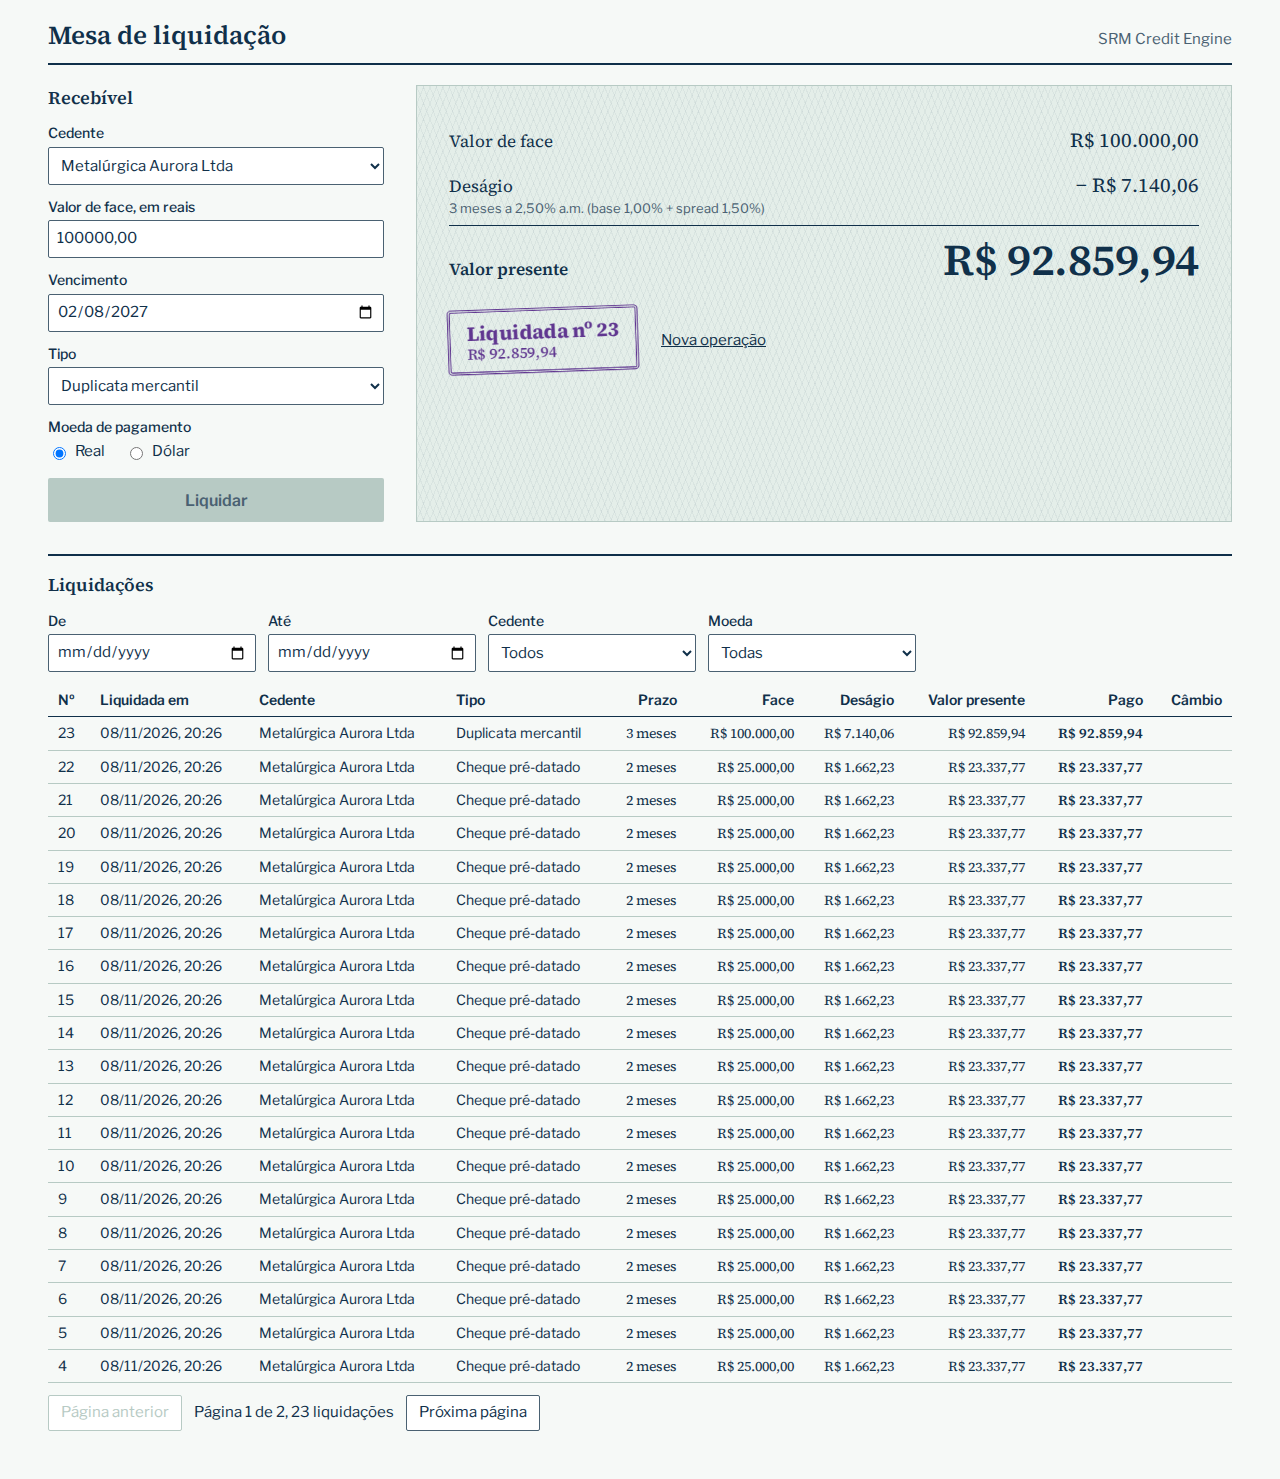
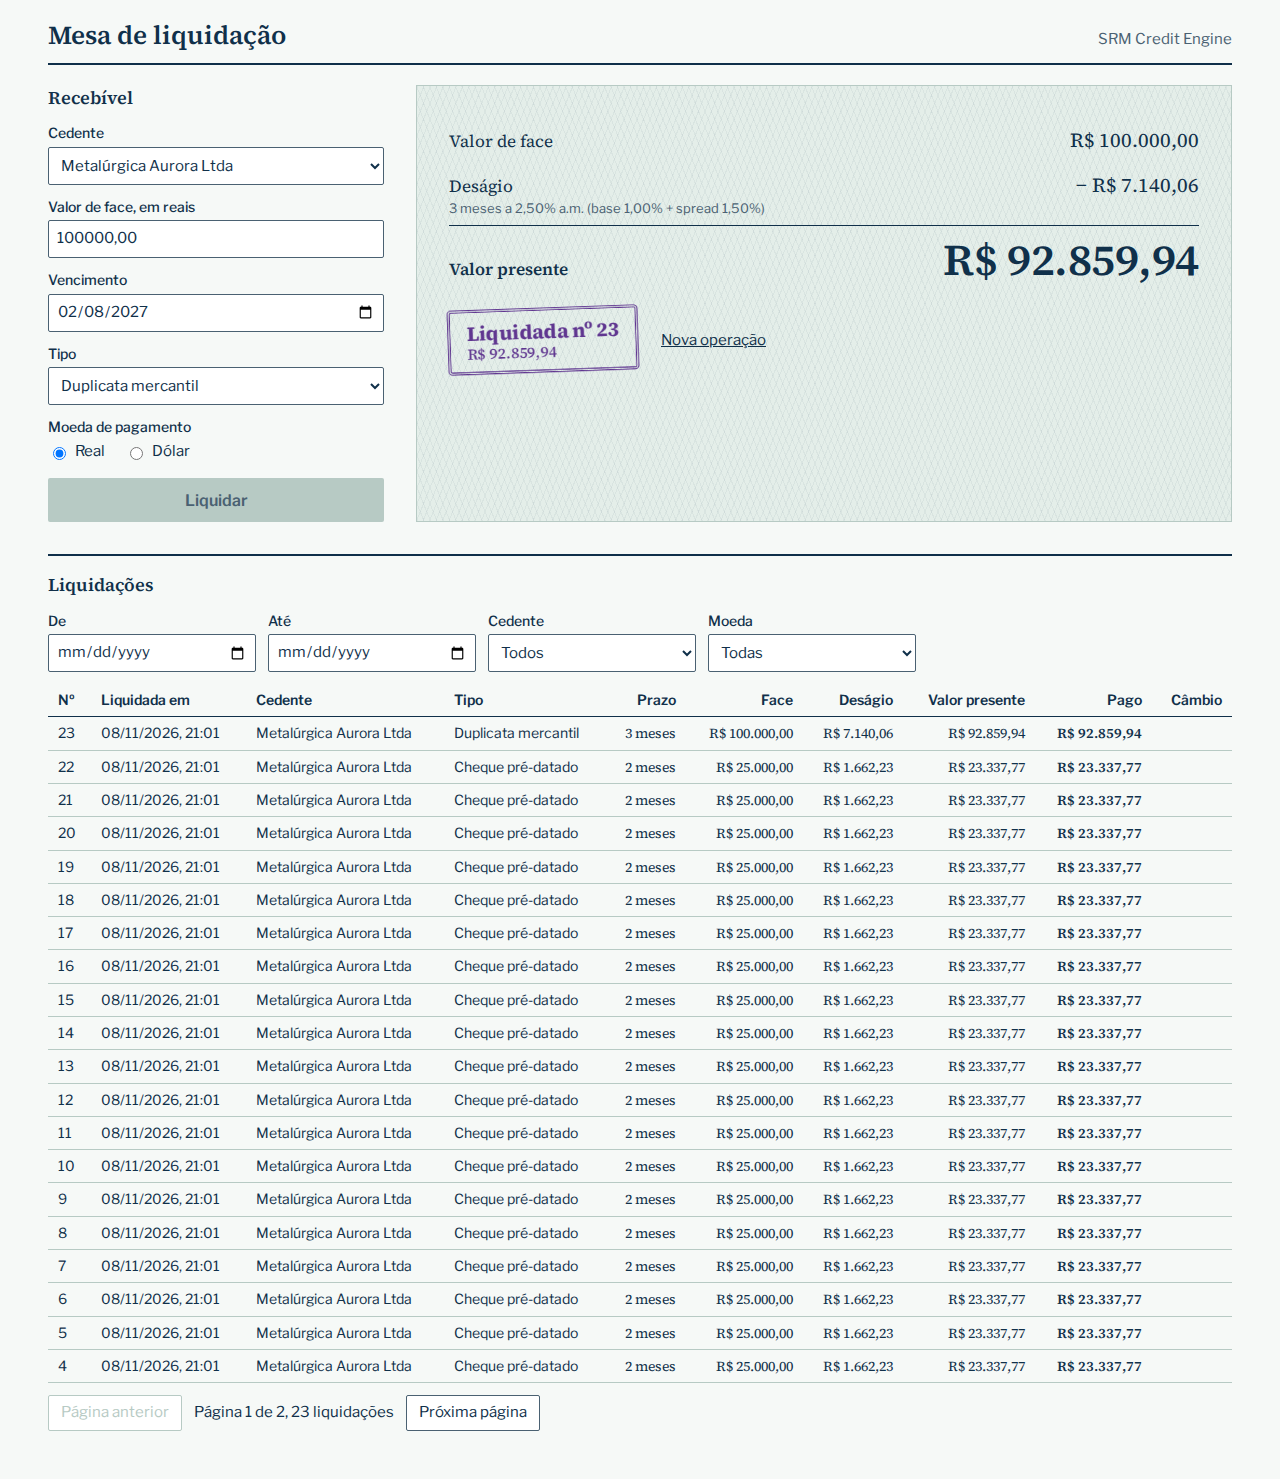
fix(frontend): keep the port in the Host header sent to the backend
$host drops the port, so the backend compared `Host: localhost` with
`Origin: http://localhost:3000`, treated it as another origin and answered 403
to every POST. The panel was unusable on its published port.

E2E used http://frontend on port 80, where both match, and the smoke test only
sent a GET through Nginx. Both now take the path the browser takes. E2E was red
before this fix and green after it.

Refs: AC-UI-01, AC-OPS-01

diff --git a/AI_USAGE.md b/AI_USAGE.md
@@ -29,15 +29,17 @@ Fatos registrados durante a implementação, na ordem em que aconteceram. Cada i
 5. **Schema `Problem` ausente no OpenAPI.** O `ContractIT` falhou ao carregar o spec: todas as respostas de erro referenciavam um schema inexistente, porque o springdoc descarta os `components` do bean `OpenAPI`. Corrigido registrando o schema no `OpenApiCustomizer`.
 6. **`Content-Type` diferente no `413`.** O `PayloadLimitFilter` respondia `application/problem+json;charset=UTF-8`, diferente dos outros erros. Detectado por `ApiErrorsIT#oversizedBodyIs413`.
 
+7. **Painel inutilizável em `http://localhost:3000`, encontrado pelo autor.** Todo POST pelo Nginx recebia `403 Invalid CORS request`, porque `proxy_set_header Host $host` descarta a porta. O backend via `Host: localhost` e `Origin: http://localhost:3000` como origens diferentes. O `verify-all.sh` tinha saído com 0 e o agente tinha declarado o trabalho concluído: o E2E acessava `http://frontend` (porta 80, em que Host e Origin coincidem) e o smoke testava pelo Nginx só um GET, que o navegador envia sem `Origin`. O teste foi trocado para a porta publicada, ficou vermelho, e só então o `nginx.conf` foi corrigido para `$http_host`. O smoke ganhou um POST com `Origin`.
+
 ### Falhas de processo do agente
 
-7. **Merge com `verify` local vermelho.** No PR #8, o agente encadeou `verify | grep ... && git commit`, e o `&&` viu o código de saída do `grep`. O `verify` local tinha falhado por causa do iCloud (item 9), e o commit e o merge seguiram. O CI passou no mesmo código. Depois disso, o `verify` passou a rodar por um script que devolve o código real do Maven.
-8. **Gate de cobertura que não media nada.** Com um symlink em `target`, os goals `merge`, `report` e `check` do JaCoCo só pularam, e o build deu `BUILD SUCCESS`. O agente notou que o relatório não existia. Corrigido com `followSymlinks`, e o upload do CI passou a falhar se o relatório faltar. O gate foi provado subindo a meta para `0.99`: exit 1 com `Coverage checks have not been met`.
-9. **Cópias do iCloud no repositório.** O projeto está numa pasta sincronizada. A sincronização criou cópias como `TestData 2.class`, que quebraram o `verify`, e `.git/index 2`. Um `git add -A` levou 8 cópias de arquivos do frontend para a `main` no PR #12. Elas foram removidas por um commit normal (PR #13), sem reescrever histórico. Um script de limpeza também apagou um diretório `.git 2` antes de o agente inspecioná-lo: era uma cópia não rastreada, e o repositório real seguiu íntegro (`git fsck` limpo). Mitigação local: diretórios `.nosync` e exclusões do git. **Recomendação ao autor: mover o repositório para fora de Desktop/Documentos.**
-10. **Escrita fora do diretório do projeto.** A primeira execução do Testcontainers criou `~/.testcontainers.properties`, apesar do limite do `PROMPT.md`. O arquivo não existia antes e foi removido, e as execuções seguintes usam `user.home` em `.cache`. Alguns logs também foram gravados em `/tmp` por engano e apagados em seguida.
+8. **Merge com `verify` local vermelho.** No PR #8, o agente encadeou `verify | grep ... && git commit`, e o `&&` viu o código de saída do `grep`. O `verify` local tinha falhado por causa do iCloud (item 10), e o commit e o merge seguiram. O CI passou no mesmo código. Depois disso, o `verify` passou a rodar por um script que devolve o código real do Maven.
+9. **Gate de cobertura que não media nada.** Com um symlink em `target`, os goals `merge`, `report` e `check` do JaCoCo só pularam, e o build deu `BUILD SUCCESS`. O agente notou que o relatório não existia. Corrigido com `followSymlinks`, e o upload do CI passou a falhar se o relatório faltar. O gate foi provado subindo a meta para `0.99`: exit 1 com `Coverage checks have not been met`.
+10. **Cópias do iCloud no repositório.** O projeto está numa pasta sincronizada. A sincronização criou cópias como `TestData 2.class`, que quebraram o `verify`, e `.git/index 2`. Um `git add -A` levou 8 cópias de arquivos do frontend para a `main` no PR #12. Elas foram removidas por um commit normal (PR #13), sem reescrever histórico. Um script de limpeza também apagou um diretório `.git 2` antes de o agente inspecioná-lo: era uma cópia não rastreada, e o repositório real seguiu íntegro (`git fsck` limpo). Mitigação local: diretórios `.nosync` e exclusões do git. **Recomendação ao autor: mover o repositório para fora de Desktop/Documentos.**
+11. **Escrita fora do diretório do projeto.** A primeira execução do Testcontainers criou `~/.testcontainers.properties`, apesar do limite do `PROMPT.md`. O arquivo não existia antes e foi removido, e as execuções seguintes usam `user.home` em `.cache`. Alguns logs também foram gravados em `/tmp` por engano e apagados em seguida.
 
 ### Divergências encontradas nos documentos do kit
 
-11. Skill `golden-cases`: a conferência manual cita `92859,94 / 5,4321 = 17094,670…`. O valor real é `17094,6668…`. O resultado arredondado (`17094,67`) não muda.
-12. AC-SET-09 presume INSERT antes do UPDATE, o que contraria o `CLAUDE.md` (R3 do `SPEC.md`).
-13. AC-FX-07 pede "< 50 ms", e a skill `quality-gates` proíbe limite de tempo em teste de integração (R4 do `SPEC.md`).
+12. Skill `golden-cases`: a conferência manual cita `92859,94 / 5,4321 = 17094,670…`. O valor real é `17094,6668…`. O resultado arredondado (`17094,67`) não muda.
+13. AC-SET-09 presume INSERT antes do UPDATE, o que contraria o `CLAUDE.md` (R3 do `SPEC.md`).
+14. AC-FX-07 pede "< 50 ms", e a skill `quality-gates` proíbe limite de tempo em teste de integração (R4 do `SPEC.md`).

diff --git a/docs/prs/17-fix-nginx-host-header.md b/docs/prs/17-fix-nginx-host-header.md
@@ -1,0 +1,35 @@
+## Contexto
+O painel estava inutilizável em `http://localhost:3000`: toda simulação e toda liquidação recebiam `403 Invalid CORS request`. O autor encontrou o bug ao usar o sistema, depois de `scripts/verify-all.sh` ter saído com 0.
+
+## Por quê (decisões)
+- **`proxy_set_header Host $http_host`** — `$host` descarta a porta. O backend recebia `Host: localhost` e `Origin: http://localhost:3000`, tratava como outra origem e recusava, porque só `localhost:5173` está liberada. Com a porta preservada, o Spring reconhece a mesma origem e nem aplica CORS. Liberar `localhost:3000` no backend também resolveria nessa porta, mas continuaria quebrando quem abre o painel pelo IP da máquina.
+- **E2E pela porta publicada (`host.docker.internal:3000`)** — o teste passava porque acessava `http://frontend`, na porta 80, em que `Host` e `Origin` coincidem. Agora ele faz o mesmo caminho do navegador do operador.
+- **POST com `Origin` no smoke do `verify-all.sh`** — o smoke passava pelo Nginx só com um GET, e o navegador não envia `Origin` em GET. Esse caminho nunca era exercitado.
+
+## Como o bug escapou
+Três camadas de teste passavam, e nenhuma fazia o caminho real: testes de integração falam direto com o backend, o smoke usava a porta 8080 sem `Origin`, e o E2E usava outra URL. A lição: pelo menos um teste precisa entrar pela porta que o usuário usa.
+
+## O que mudou
+- `frontend/nginx.conf`: `$http_host`.
+- `docker-compose.yml`: E2E pela porta publicada.
+- `scripts/verify-all.sh`: POST com `Origin` no smoke.
+- `AI_USAGE.md`: caso registrado no log.
+
+## Como testar
+```bash
+docker compose up -d --build --wait
+curl -i -X POST http://localhost:3000/api/pricing/quote -H 'Content-Type: application/json' \
+  -H 'Origin: http://localhost:3000' \
+  -d '{"faceValue":"100000.00","dueDate":"2030-01-15","type":"DUPLICATA_MERCANTIL","paymentCurrency":"BRL"}'
+# 200; antes da correção, 403
+docker compose --profile e2e run --rm --build e2e
+```
+O E2E com a nova URL ficou vermelho antes da correção e verde depois.
+
+## Critérios de aceite
+AC-UI-01 a AC-UI-08 e AC-UI-11, agora pela porta publicada; AC-OPS-01.
+
+## Riscos / fora de escopo
+Carga e estresse não foram repetidos: eles falam direto com `backend:8080`, sem passar pelo Nginx. `docs/perf/REPORT.md` continua sendo a execução do commit `583906b`.
+
+🤖 Generated with [Claude Code](https://claude.com/claude-code)

diff --git a/docs/PROGRESS.md b/docs/PROGRESS.md
@@ -3,7 +3,7 @@
 Estado do loop de `PROMPT.md`. Atualizado ao fim de cada etapa.
 
 **Etapa atual:** concluído; só resta a revisão do autor
-**Último comando:** `scripts/verify-all.sh` sem flags, no commit `583906b` → exit 0 (`VERIFICAÇÃO COMPLETA`)
+**Último comando:** `scripts/verify-all.sh --skip-perf` → passos verdes (exit 2 por causa da flag). A última execução sem flags foi no commit `583906b`, antes da correção do Nginx.
 **Próximo passo (autor):** preencher as seções 1 a 3 de `AI_USAGE.md`, assumir os critérios em `docs/acceptance/README.md` e revisar a seção 5 do `SPEC.md`.
 
 ## Ambiente de execução do agente
@@ -34,6 +34,8 @@ Estado do loop de `PROMPT.md`. Atualizado ao fim de cada etapa.
 
 - Etapa 13: o `ContractIT` revelou que o schema `Problem` não estava no spec publicado: todas as respostas de erro referenciavam algo inexistente, porque o springdoc descarta os `components` do bean `OpenAPI`. Corrigido registrando o schema no `OpenApiCustomizer`.
 
+- Pós-entrega: o autor encontrou `403` ao usar o painel em `localhost:3000`. Causa em `frontend/nginx.conf` (`$host` sem porta). O `verify-all.sh` e o E2E não pegaram porque não usavam a porta publicada com `Origin`. Detalhes em `AI_USAGE.md`.
+
 ## Etapas
 
 | # | Branch | Status | PR | Observação |
@@ -55,6 +57,7 @@ Estado do loop de `PROMPT.md`. Atualizado ao fim de cada etapa.
 | 14 | `test/perf` | ✅ | #15 | quebra não atingida até 800 req/s |
 | 15 | `docs/review-decisions` | ✅ | #16 | |
 | 16 | `chore/verify-all` | ✅ | #17 | `scripts/verify-all.sh` sem flags → exit 0 |
+| 17 | `fix/nginx-host-header` | ✅ | #18 | `403` no painel, encontrado pelo autor; `verify-all.sh --skip-perf` verde, sem repetir carga e estresse |
 
 ## BLOCKED
 
